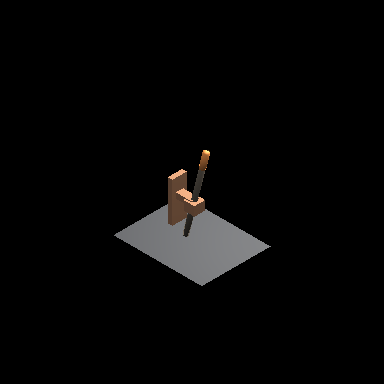
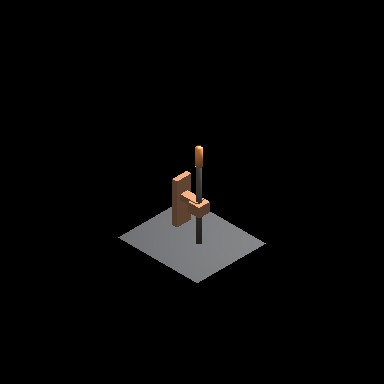
Builder attachment fixes

diff --git a/creator/src/tools/linedef.rs b/creator/src/tools/linedef.rs
@@ -29,18 +29,19 @@ fn resolve_creation_surface_side(
     surface_origin: Vec3<f32>,
     hover_ray_dir: Option<Vec3<f32>>,
 ) -> Vec3<f32> {
-    let signed_dist = (hit_pos - surface_origin).dot(surface_normal);
-    let grow_positive = if signed_dist.abs() > 0.01 {
-        signed_dist >= 0.0
-    } else if let Some(ray_dir) = hover_ray_dir {
-        surface_normal.dot(-ray_dir) >= 0.0
+    if let Some(ray_dir) = hover_ray_dir.and_then(|dir| dir.try_normalized()) {
+        if surface_normal.dot(-ray_dir) >= 0.0 {
+            surface_normal
+        } else {
+            -surface_normal
+        }
     } else {
-        true
-    };
-    if grow_positive {
-        surface_normal
-    } else {
-        -surface_normal
+        let signed_dist = (hit_pos - surface_origin).dot(surface_normal);
+        if signed_dist >= 0.0 {
+            surface_normal
+        } else {
+            -surface_normal
+        }
     }
 }
 

diff --git a/crates/rusterix/src/chunkbuilder/d3chunkbuilder.rs b/crates/rusterix/src/chunkbuilder/d3chunkbuilder.rs
@@ -3900,7 +3900,13 @@ fn emit_builder_vertex_meshes(
     } else {
         1.0
     };
-    let outward = builder_linedef_outward(along, host_properties);
+    let outward = Vec3::new(
+        host_properties.get_float_default("host_outward_x", 0.0),
+        host_properties.get_float_default("host_outward_y", 0.0),
+        host_properties.get_float_default("host_outward_z", 0.0),
+    )
+    .try_normalized()
+    .unwrap_or_else(|| builder_linedef_outward(along, host_properties));
     let up = Vec3::new(0.0, 1.0, 0.0);
     let Ok(assembly) = graph.evaluate() else {
         return false;
